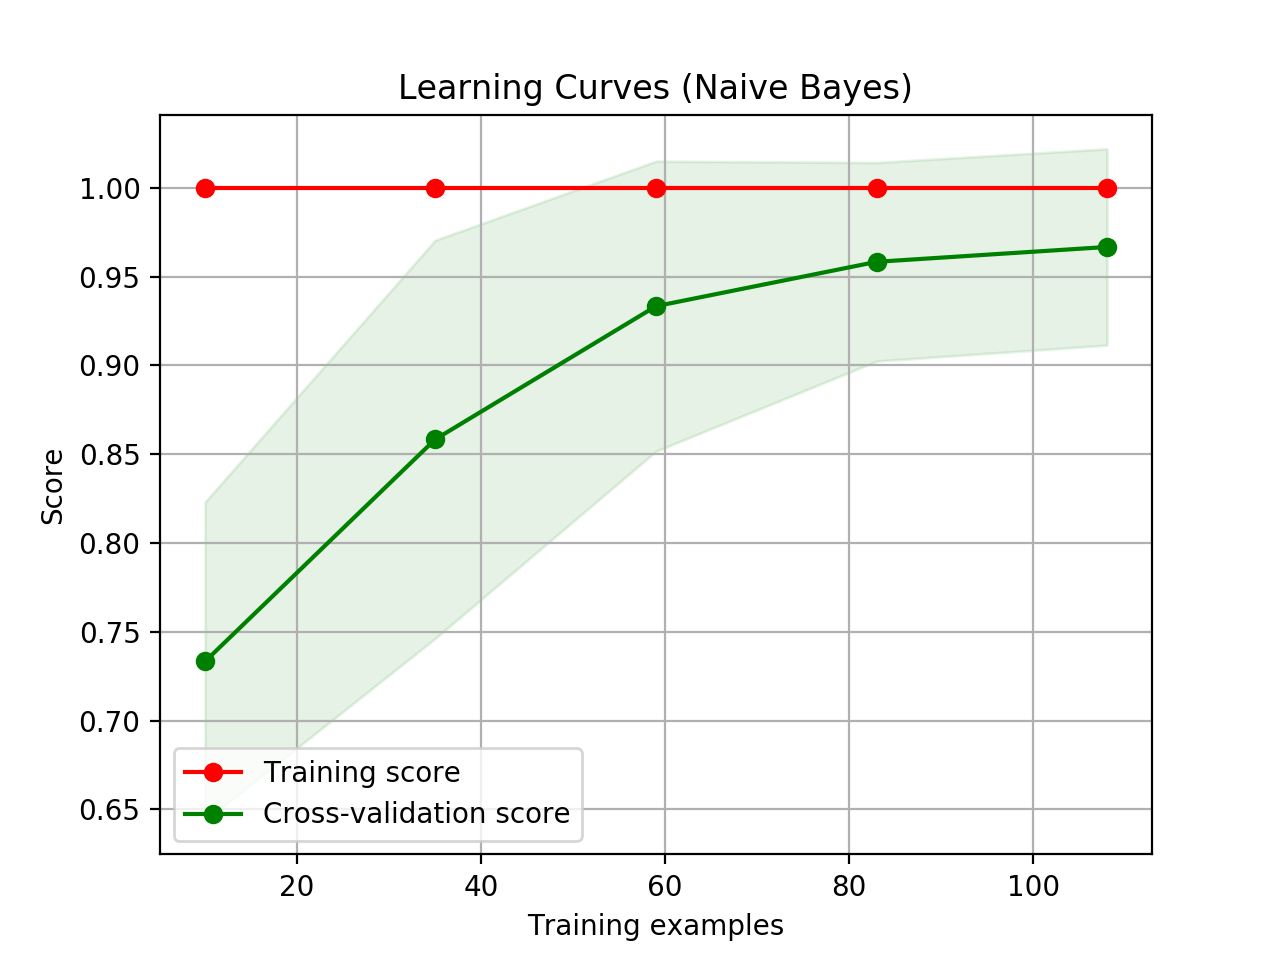
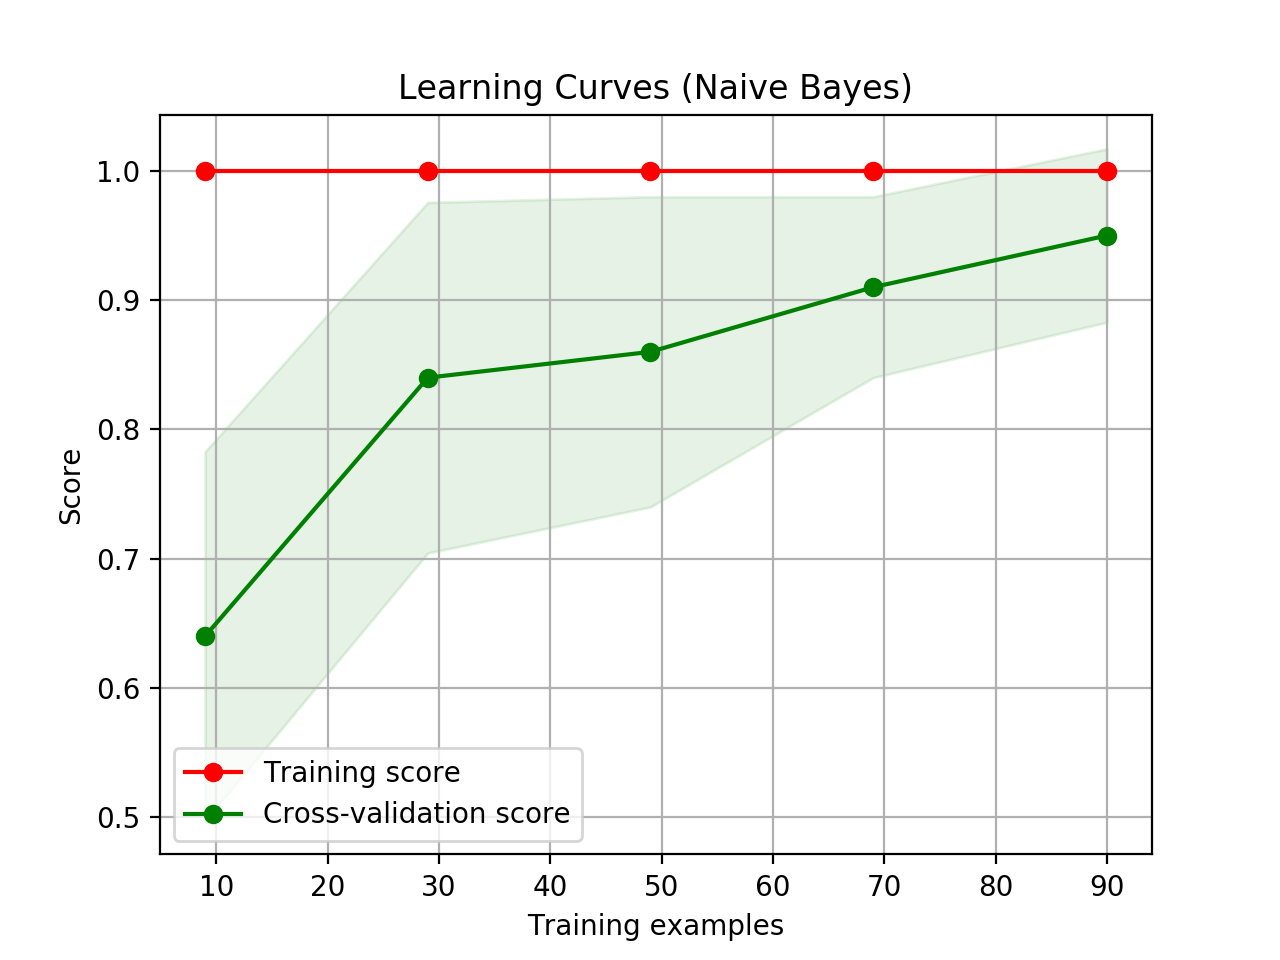
naive bayes with new dataset

diff --git a/classify/classifiers/class-naivebayes.py b/classify/classifiers/class-naivebayes.py
@@ -126,8 +126,8 @@ def main():
         f.write("Fit Time: %0.2f (+/- %0.2f)\n" % (scores["fit_time"].mean(), scores["fit_time"].std() * 2))
         f.write('\n\n')
 
-        title = "Learning Curves (Naive Bayes)"
-        plot_learning_curve(clf, title, X, y, cv=folders, n_jobs=4)
+        # title = "Learning Curves (Naive Bayes)"
+        # plot_learning_curve(clf, title, X, y, cv=folders, n_jobs=4)
 
 
 
